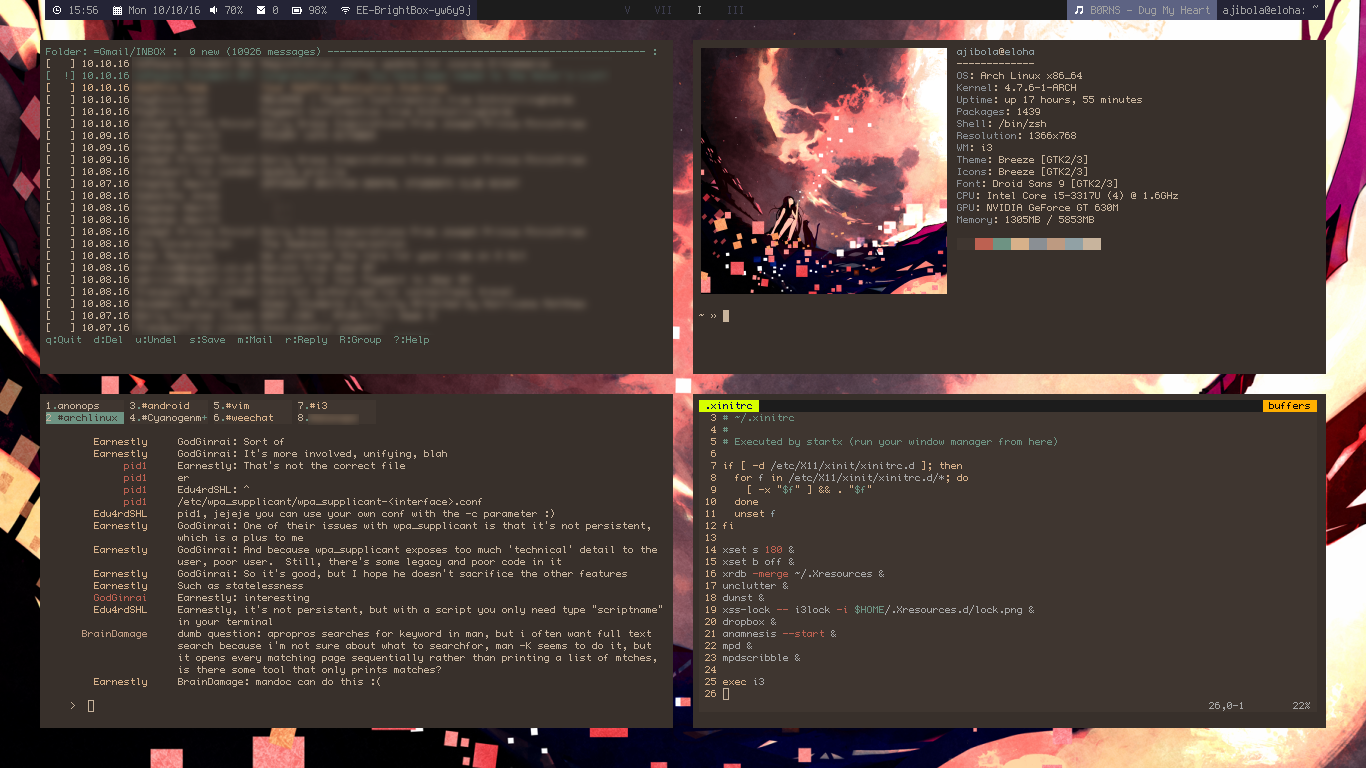
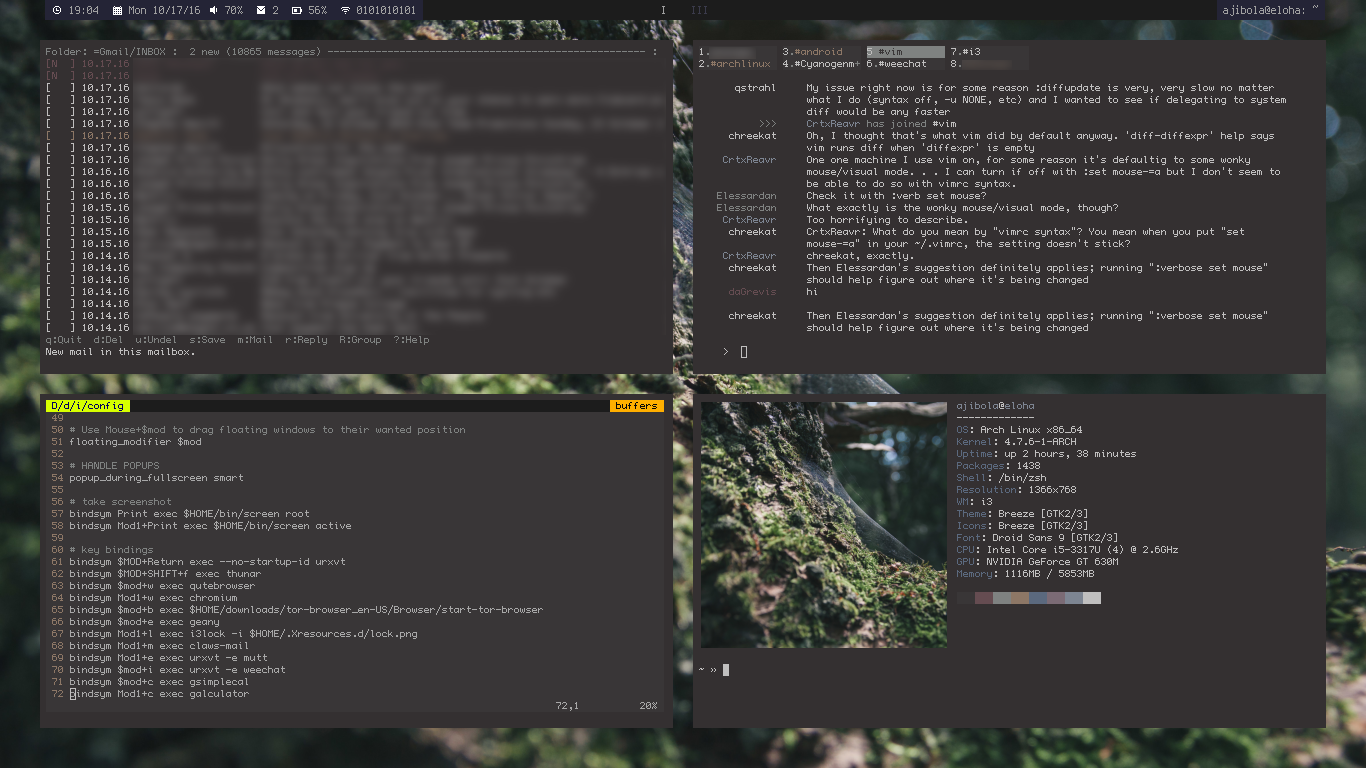
new screenshot, i3 config code cleanup

diff --git a/README.md b/README.md
@@ -69,9 +69,13 @@ cd dotfiles
 
 
 
-### Screenshot
+### Screenshots
 
-![ScreenShot](/screenshot.png)
+[color palette in use](/Xresources.d/colors/provrb)
+![Screenshot](/screenshot.png)
+
+[color palette in use](/Xresources.d/colors/harbing)
+![Screenshot2](/screenshot2.png)
 
 &nbsp;
 
